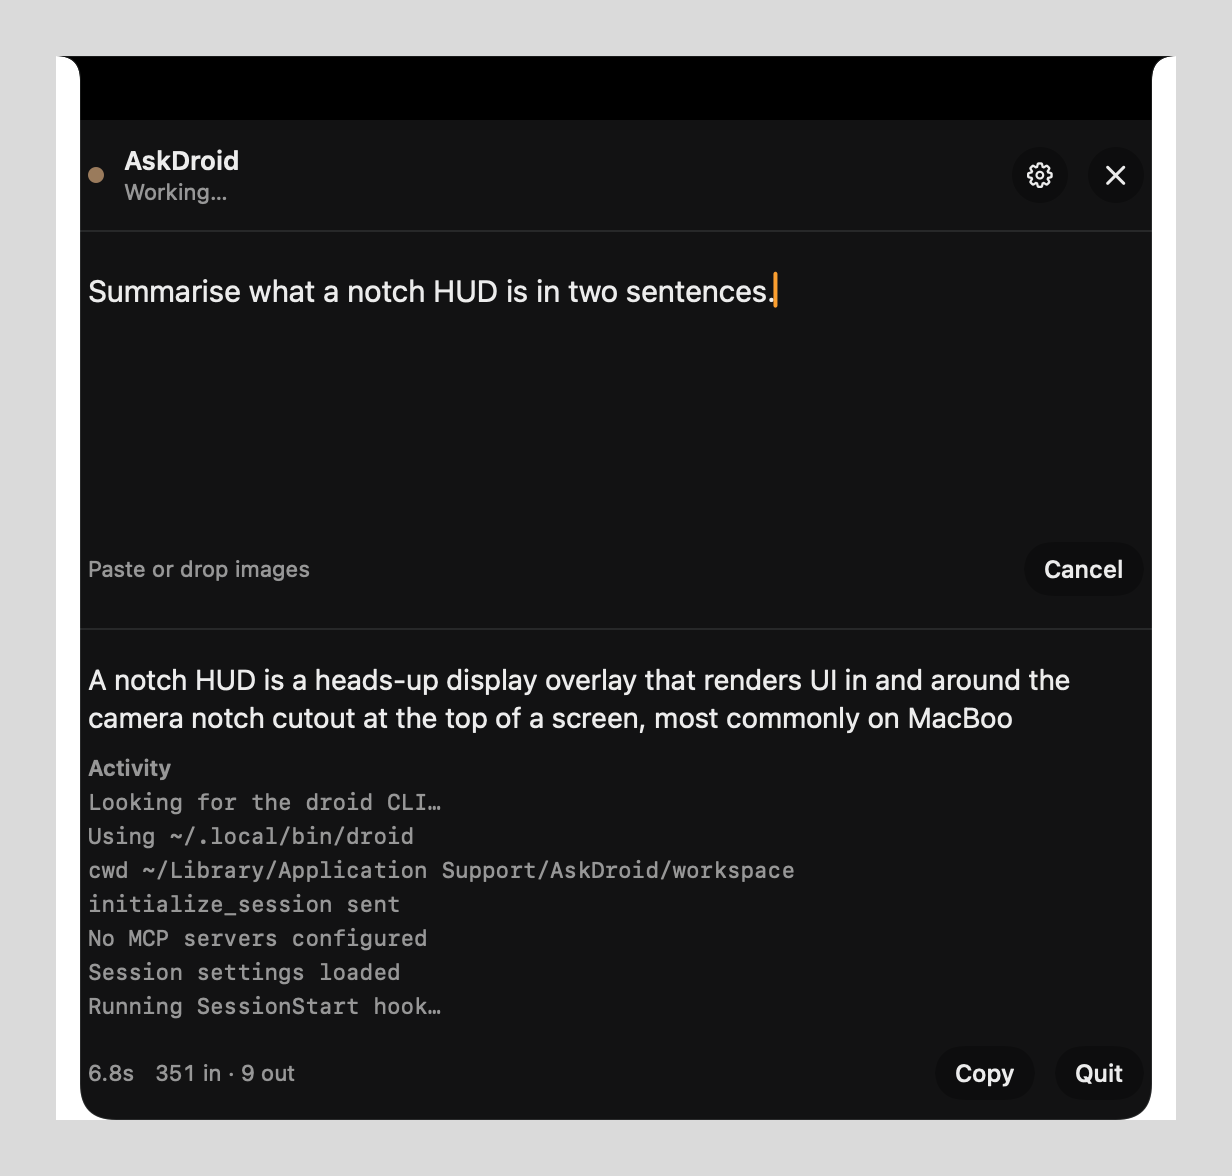
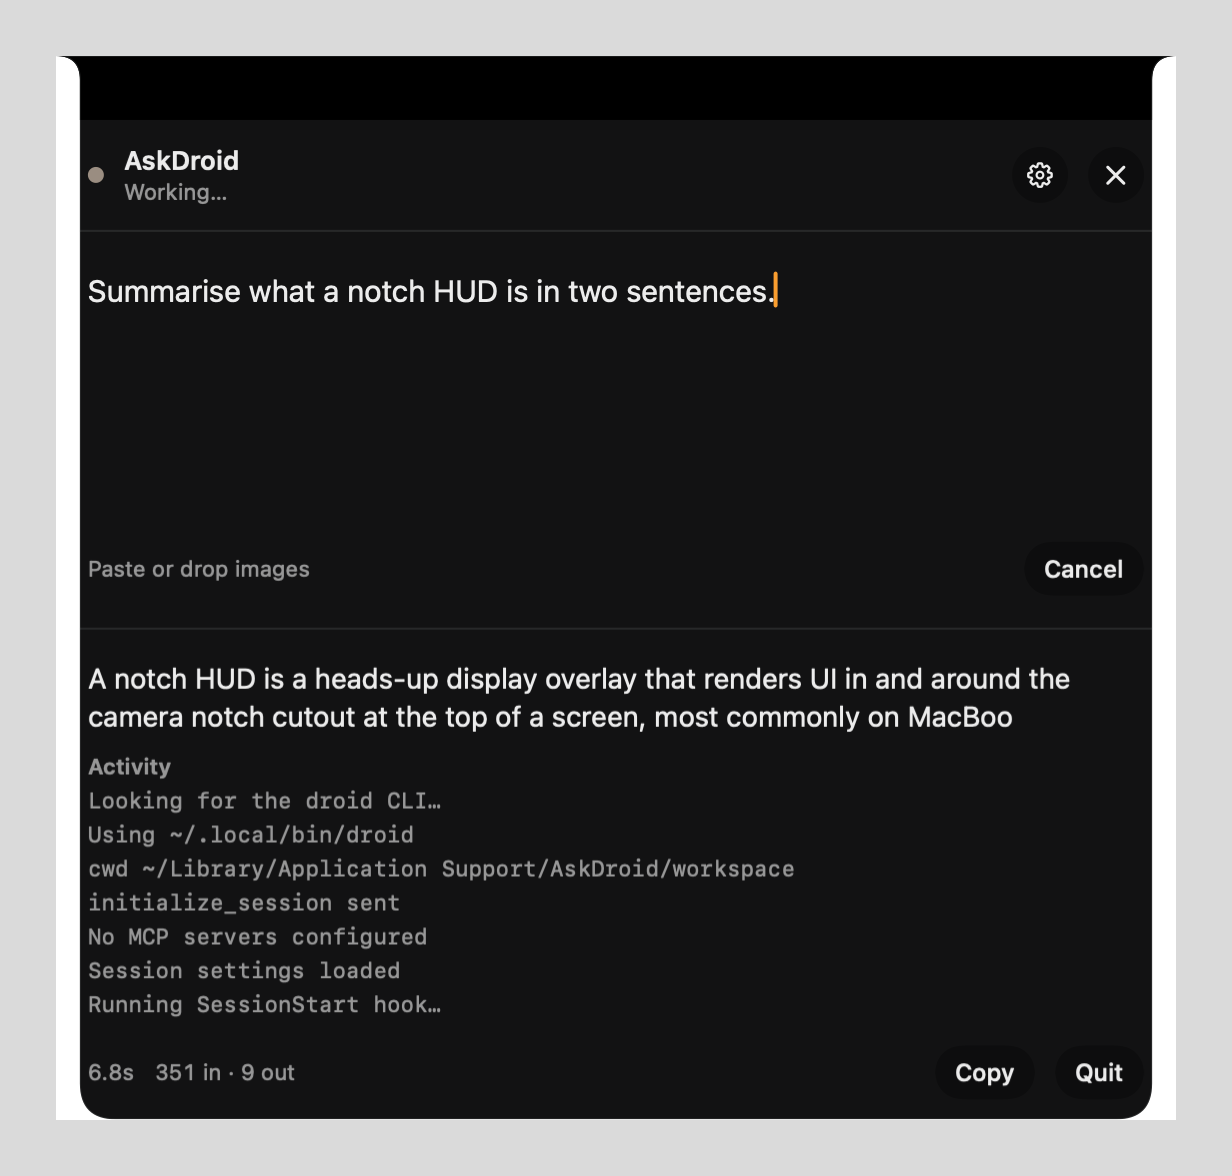
Restore pill wing padding and reuse status color tokens
The trailing wing applied its 10pt inset after the width frame, pushing the
pill 10pt wider than its window and clipping the text against the border.
The inset now sits inside the frame so both wings keep their gap. StatusDot
also uses Theme.success/danger instead of duplicating the raw values.

diff --git a/Sources/AskDroid/HUD/HUDRootView.swift b/Sources/AskDroid/HUD/HUDRootView.swift
@@ -75,8 +75,8 @@ struct CompactPill: View {
                         .foregroundStyle(session.phase == .failed ? Theme.danger : Theme.success)
                 }
             }
-            .frame(width: metrics.compactTrailingWidth, alignment: .trailing)
             .padding(.trailing, 10)
+            .frame(width: metrics.compactTrailingWidth, alignment: .trailing)
             .frame(maxHeight: .infinity)
             .background(Theme.pillFill)
         }
@@ -412,8 +412,8 @@ struct StatusDot: View {
     private var color: Color {
         switch phase {
         case .running: Theme.accent
-        case .completed: Color(red: 0.45, green: 0.84, blue: 0.52)
-        case .failed: Color(red: 1, green: 0.45, blue: 0.38)
+        case .completed: Theme.success
+        case .failed: Theme.danger
         default: Theme.mute
         }
     }
